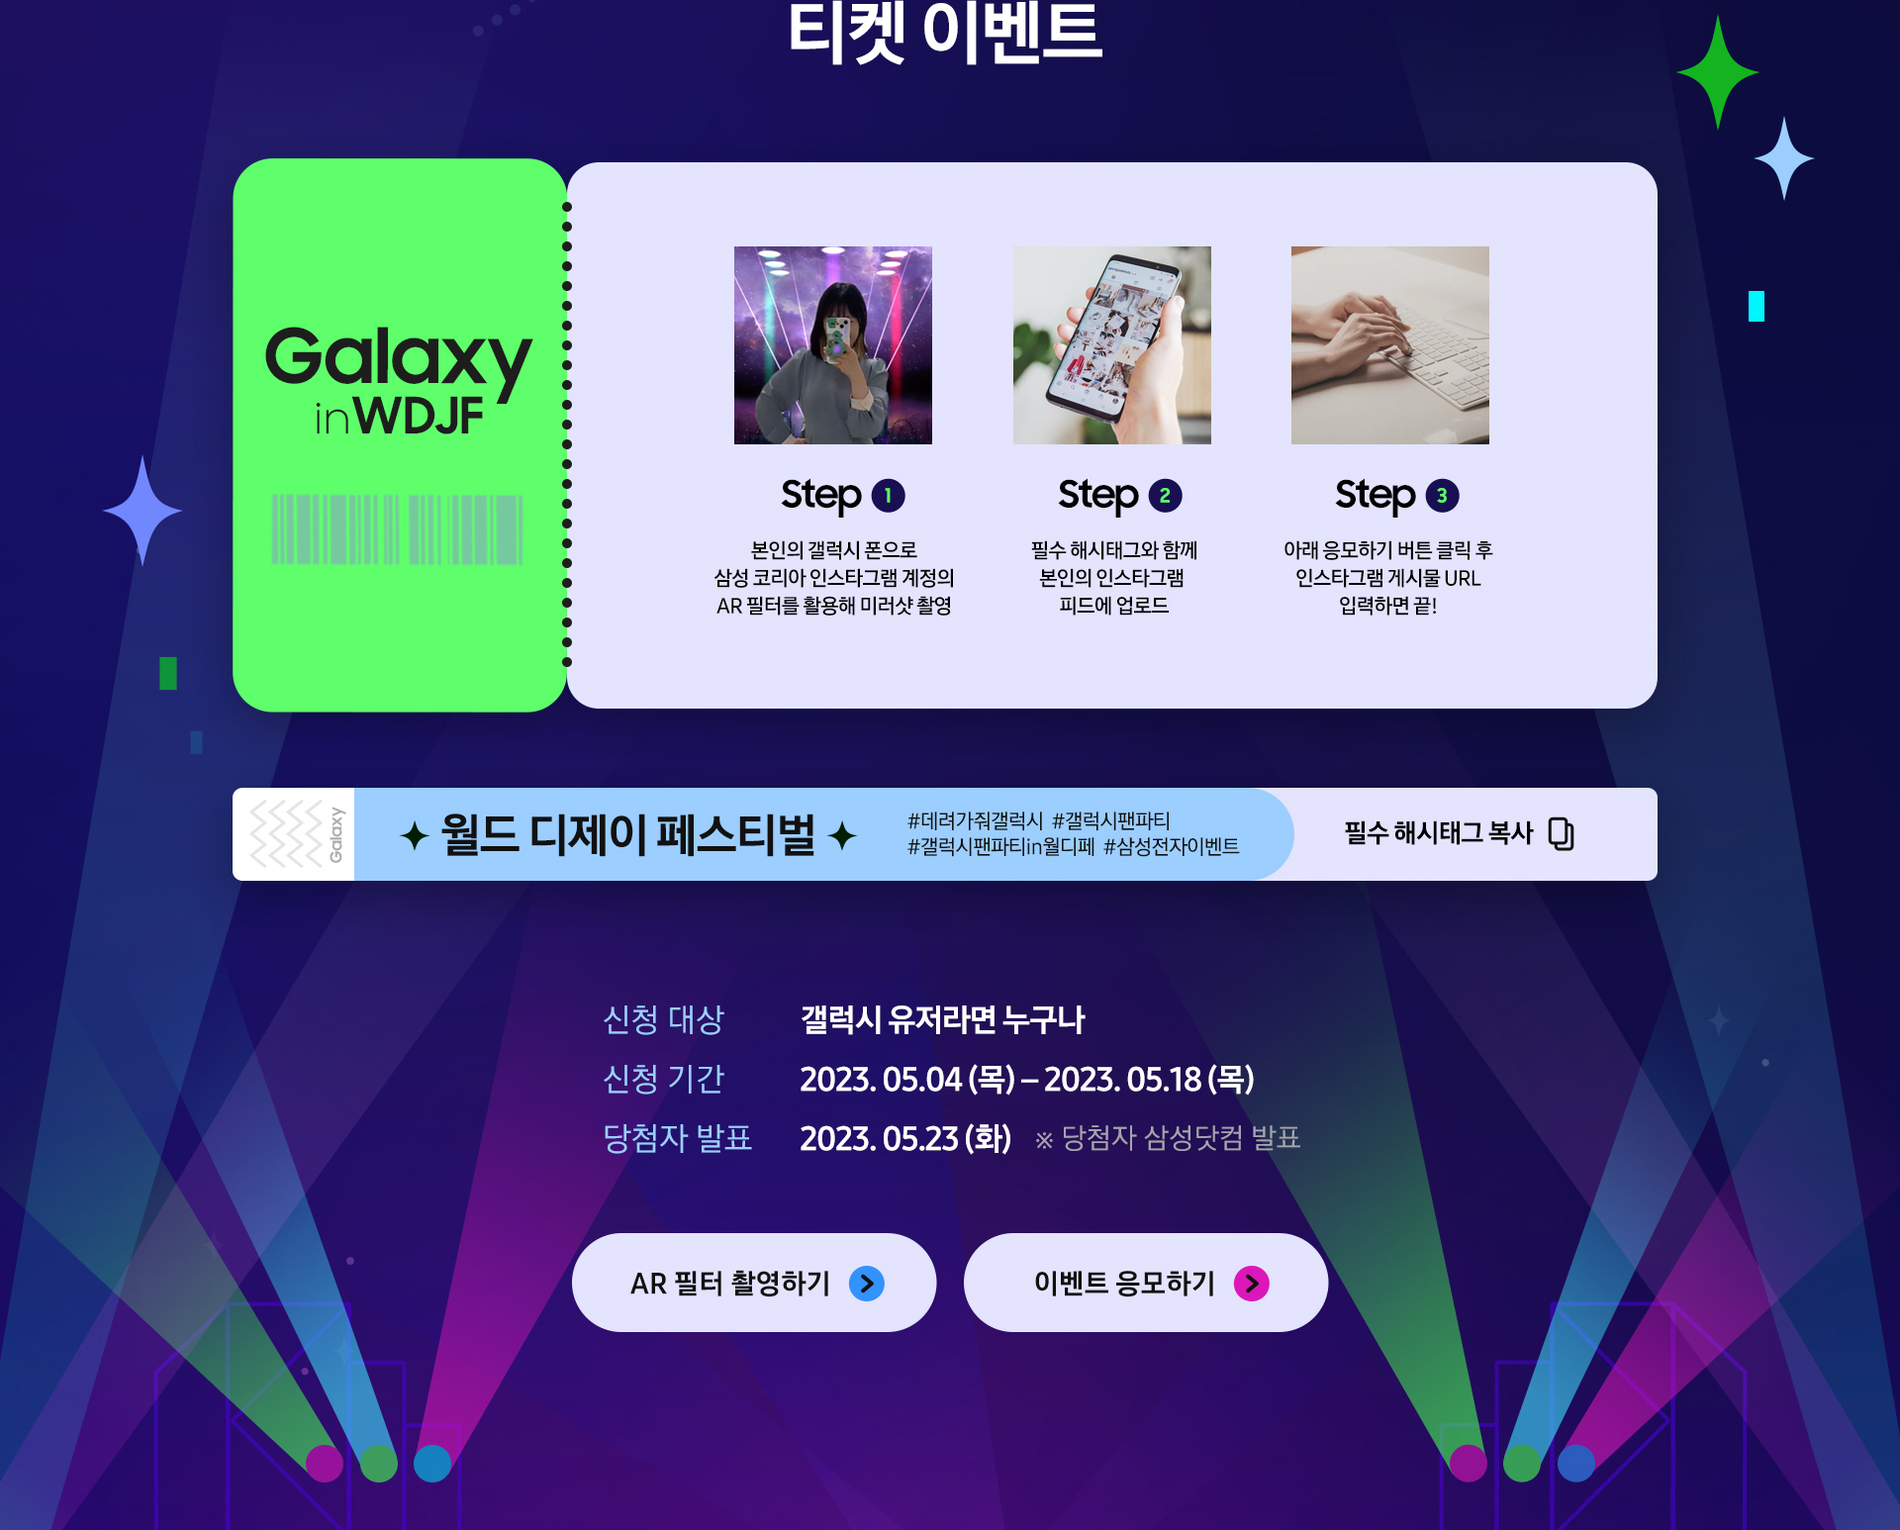
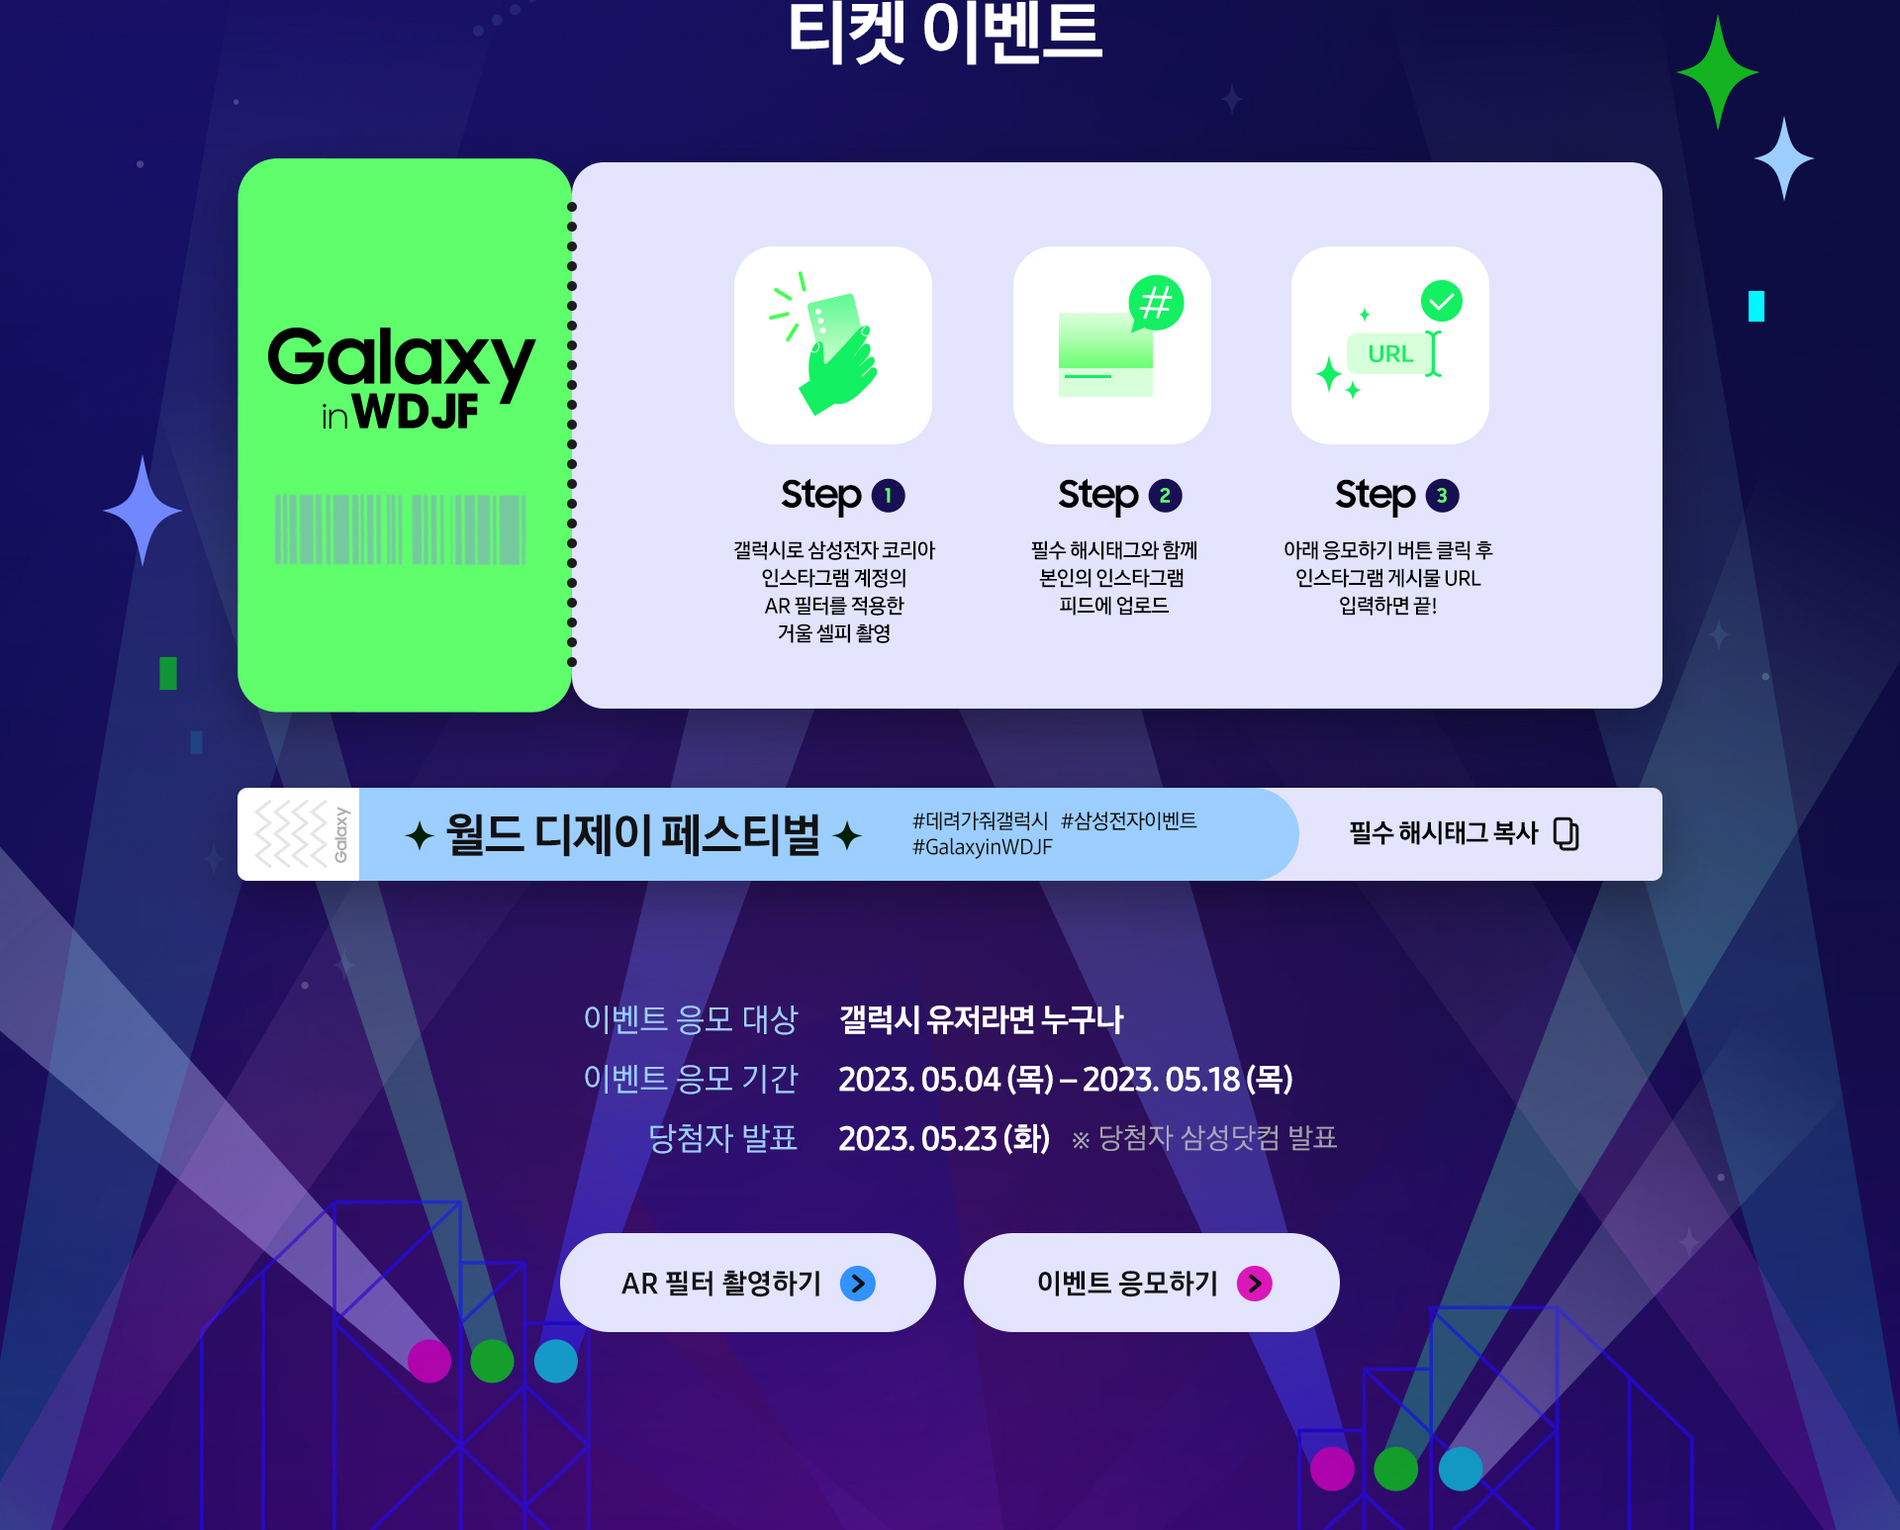
update

diff --git a/index.html b/index.html
@@ -43,16 +43,45 @@
       <!-- <img src="./public/images/pc_keyVisual.jpg" alt=""> -->
       <div class="sr-only">
         <h1>Galaxy in WDJF</h1>
-        <h2>갤럭시, 이번에는 월드 디제이 페스티벌!</h2>
-        <p>이벤트 참여를 통해 당첨된 갤럭시 Fan에게는 갤럭시 in 월드 디제이 페스티벌에 참여할 기회를 드립니다.</p>
+        <h2>갤럭시, 월드 디제이 페스티벌과 만났다!</h2>
+        <p>이벤트 참여를 통해 당첨된 갤럭시 Fan에게는 'Galaxy in WDJF' 티켓을 드립니다.</p>
         <ul>
-          <li><strong>일시</strong>2023.06.02(금) ~ 2023.06.04(일) 14:00 - 22:00</li>
+          <li><strong>행사일</strong>2023.06.02(금) ~ 2023.06.04(일) 14:00 - 22:00</li>
           <li><strong>장소</strong>서울랜드</li>
         </ul>
       </div>
       <a class="btnMore" href="#" target="_blank">월드 디제이 페스티벌 자세히 보기</a>
     </section>
     <section class="contVideo">
+      <div class="swiperArea">
+      <!-- mySwiper2 -->
+        <div class="swiper mySwiper2">
+          <div class="swiper-wrapper">
+            <div class="swiper-slide">
+              <img src="https://swiperjs.com/demos/images/nature-1.jpg" />
+            </div>
+            <div class="swiper-slide">
+              <img src="https://swiperjs.com/demos/images/nature-2.jpg" />
+            </div>
+          </div>
+          <div class="swiper-button-next"></div>
+          <div class="swiper-button-prev"></div>
+        </div>
+        <!-- //mySwiper2 -->
+        <!-- mySwiper -->
+        <div class="swiper mySwiper">
+          <div class="swiper-wrapper">
+            <div class="swiper-slide">
+              <img src="https://swiperjs.com/demos/images/nature-1.jpg" />
+            </div>
+            <div class="swiper-slide">
+              <img src="https://swiperjs.com/demos/images/nature-2.jpg" />
+            </div>
+          </div>
+        </div>
+        <!-- //mySwiper -->
+      </div>
+      
       <!-- <img src="./public/images/pc_contents_1.jpg" alt=""> -->
       <div class="sr-only">
         <h2>갤럭시, 월디페랑 만났다고?</h2>
@@ -68,8 +97,8 @@
       <div class="sr-only">
         <h2>갤럭시 Fan에게만 주어지는 특별한 혜택</h2>
         <ul>
-          <li>기다리지 않고 빠르게 입장 가능한 갤럭시 Fan만을 위한 티켓 부스 운영</li>
-          <li>프리 드링크가 제공되는 초청 고객만 입장할 수 있는 라운지</li>
+          <li>기다리지 않고 빠르게 입장할 수 있는 전용 티켓 부스 운영</li>
+          <li>갤럭시 초청 고객만 입장할 수 있는 라운지</li>
           <li>그 외 Galaxy Station에서 즐길 수 있는 수많은 프로그램까지!</li>
         </ul>
       </div>
@@ -93,9 +122,9 @@
 
       <div class="sr-only">
         <ul>
-          <li><strong>신청 대상</strong>갤럭시 유저라면 누구나</li>
-          <li><strong>신청 기간</strong>2023.05.04(목) - 2023.05.18(목)</li>
-          <li><strong>당첨자 발표</strong>2023.05.23(화) *당첨자 삼성닷컴 발표</li>
+          <li><strong>이벤트 응모 대상</strong>갤럭시 유저라면 누구나</li>
+          <li><strong>이벤트 응모 기간</strong>2023.05.04(목) - 2023.05.18(목)</li>
+          <li><strong>당첨자 발표</strong>2023.05.23(화) * 당첨자 삼성닷컴 발표</li>
         </ul>
       </div>
       <div class="btnArea">
@@ -110,35 +139,16 @@
         <ul>
           <li>본 프로그램은 당사 사정에 의해 예고없이 중단 또는 변경될 수 있습니다.</li>
           <li>본 이벤트 일정 및 내용, 경품 내역, 당첨자 발표일 등은 당사 사정에 의해 예고 없이 중단 또는 변동될 수 있습니다.</li>
-          <li>본 이벤트는 정부의 코로나 19 방역 수칙을 준수하여 진행됩니다.</li>
-          <li>만 14세 미만은 본 프로그램 참여가 불가합니다.</li>
-          <li>만 19세 미만 미성년자의 경우 매장 픽업 시 보호자 동반하여 보호자의 신분증을 제시하셔야 제품 대여가 가능합니다.</li>
-          <li>본 프로그램을 이용하기 위해서는 방문 현장에서 실물 신분증이 필요합니다. (주민등록증/운전면허증/여권 해당) 사전예약 이벤트는 매일 선착순으로 마감되며 비정상적인 방법으로 이벤트 신청 시 당첨이 제한됩니다.</li>
-          <li>(타인 명의 계정 도용, 가짜 명의 생성, 반복 참여 프로그램 이용 등)</li>
-          <li>잘못된 개인정보 입력 시 현장에서 프로그램 참여가 어려울 수 있으며 당사에서 책임지지 않습니다.</li>
-          <li>해당 프로그램에 참여시 결과물과 참여 사진은 기간 제한 없이 당사 마케팅 활동에 활용될 수 있습니다.</li>
-          <li>100배줌은 디지털줌으로 Galaxy S23 Ultra 후면 카메라에 한합니다.</li>
-          <li>본 이벤트 관련 문의사항은 운영사무국으로 연락 부탁드립니다. 전화번호 : 02-2088-3989(10:00~19:00) | email: galaxys23_studio@naver.com</li>
+          <li>만 19세 미만은 본 이벤트 참여가 불가합니다.</li>
+          <li>본 이벤트 경품은 제세공과금이 발생하며, 삼성전자에서 부담합니다.</li>
+          <li>잘못된 개인정보 입력으로 인해 당첨자에게 연락이 불가능하거나 반송될 경우 재발송 되지 않으며 당사에서 책임지지 않습니다.</li>
+          <li>이벤트에 응모할 목적으로 작성한 게시글은 당첨자 발표일까지 전체공개 상태로 유지되어 있어야 정상 응모로 간주됩니다.</li>
+          <li>비정상적인 방법(타인 이미지 도용, 가짜 명의 생성, 반복 참여 프로그램 이용 등)으로 참여 시 당첨이 제한되며, 당첨된 이후라 해도 비정상적 방법으로 응모한 것이 확인될 경우 당첨이 취소될 수 있습니다.</li>
+          <li>본 이벤트 중복 참여는 가능하나, 경품은 중복 지급하지 않습니다. 당첨된 경품을 타인에게 양도하거나 판매하는 것을 금지합니다.</li>
         </ul>
       </div>
     </section>
-      <!-- Slider main container -->
-      <!-- <div class="swiper">
-        <div class="swiper-wrapper">
-          <div class="swiper-slide"><img src="https://images.unsplash.com/photo-1681325655883-14885bd9cd93?ixlib=rb-4.0.3&ixid=MnwxMjA3fDB8MHxwaG90by1wYWdlfHx8fGVufDB8fHx8&auto=format&fit=crop&w=2532&q=80" alt=""></div>
-          <div class="swiper-slide"><img src="https://images.unsplash.com/photo-1681284298793-492e48fcb9f3?ixlib=rb-4.0.3&ixid=MnwxMjA3fDB8MHxwaG90by1wYWdlfHx8fGVufDB8fHx8&auto=format&fit=crop&w=2489&q=80" alt=""></div>
-          <div class="swiper-slide"><img src="https://images.unsplash.com/photo-1681284298614-4a10f165bb37?ixlib=rb-4.0.3&ixid=MnwxMjA3fDB8MHxwaG90by1wYWdlfHx8fGVufDB8fHx8&auto=format&fit=crop&w=2532&q=80" alt=""></div>
-          <div class="swiper-slide iframeArea"><iframe src="https://www.youtube.com/embed/QJSLtK2bY_A" title="YouTube video player" frameborder="0" allow="accelerometer; autoplay; clipboard-write; encrypted-media; gyroscope; picture-in-picture; web-share" allowfullscreen></iframe></div>
-        </div>
-
-        <div class="swiper-pagination"></div>
-
-        <div class="swiper-button-prev"></div>
-        <div class="swiper-button-next"></div>
-
-        <div class="swiper-scrollbar"></div>
-      </div> -->
-      <!-- //Slider main container -->
+      
 
   </div>
   <!-- <script src="public/js/jquery-3.6.0.min.js"></script> -->

diff --git a/public/styles/app.css b/public/styles/app.css
@@ -35,15 +35,47 @@ caption, legend { visibility: hidden; overflow: hidden; font-size: 0; line-heigh
 
 body { -webkit-user-drag: auto; }
 
-.promoWrap { max-width: 1920px; min-width: 1920px; width: 100%; margin: 0 auto; }
+.promoWrap { max-width: 1920px; width: 100%; margin: 0 auto; }
 
 .promoWrap section { position: relative; }
 
 .promoWrap section.keyVisual { width: 100%; height: 1279px; background: url(../images/pc_keyVisual.jpg) no-repeat 100% 100%; background-size: 100% 1279px; }
 
-.promoWrap section.keyVisual .btnMore { position: absolute; right: 226px; bottom: 400px; width: 146px; height: 120px; font-size: 0; line-height: 0; }
+.promoWrap section.keyVisual .btnMore { position: absolute; right: 144px; bottom: 430px; width: 234px; height: 90px; font-size: 0; line-height: 0; }
 
-.promoWrap section.contVideo { width: 100%; height: 1187px; background: url(../images/pc_contents_1.jpg) no-repeat 100% 100%; background-size: 100% 1187px; }
+.promoWrap section.contVideo { width: 100%; height: 1577px; background: url(../images/pc_contents_1.jpg) no-repeat 100% 100%; background-size: 100% 1577px; }
+
+.promoWrap section.contVideo .swiperArea { width: 1435px; margin: 0 auto; padding-top: 417px; }
+
+.promoWrap section.contVideo .swiper { width: 100%; height: 100%; }
+
+.promoWrap section.contVideo .swiper-slide { text-align: center; font-size: 18px; background: #fff; display: flex; justify-content: center; align-items: center; }
+
+.promoWrap section.contVideo .swiper-slide img { display: block; width: 100%; height: 100%; -o-object-fit: cover; object-fit: cover; }
+
+.promoWrap section.contVideo .swiper { width: 100%; height: 300px; margin-left: auto; margin-right: auto; }
+
+.promoWrap section.contVideo .swiper-slide { background-size: cover; background-position: center; }
+
+.promoWrap section.contVideo .mySwiper2 { height: 805px; width: 100%; }
+
+.promoWrap section.contVideo .mySwiper { height: 20%; box-sizing: border-box; padding: 32px 0; }
+
+.promoWrap section.contVideo .mySwiper .swiper-wrapper { justify-content: flex-end; }
+
+.promoWrap section.contVideo .mySwiper .swiper-wrapper .swiper-slide { width: 230px !important; height: 130px; opacity: 0.7; margin-left: 20px; border: 3px solid #c6c7e4; position: relative; }
+
+.promoWrap section.contVideo .mySwiper .swiper-wrapper .swiper-slide::before { position: absolute; top: 50%; left: 50%; z-index: 999; transform: translate(-50%, -50%); background: url(../images/icon_thumbs_play.png) no-repeat 0 0; background-size: 36px 40px; width: 36px; height: 40px; display: block; content: ''; }
+
+.promoWrap section.contVideo .mySwiper .swiper-wrapper .swiper-slide::after { position: absolute; top: 0; left: 0; bottom: 0; right: 0; display: block; content: ''; background-color: #0c0834; opacity: 0.8; width: 100%; height: 100%; }
+
+.promoWrap section.contVideo .mySwiper .swiper-wrapper .swiper-slide.swiper-slide-thumb-active { opacity: 1; border: 3px solid #e3e4fd; }
+
+.promoWrap section.contVideo .mySwiper .swiper-wrapper .swiper-slide.swiper-slide-thumb-active::before { display: none; }
+
+.promoWrap section.contVideo .mySwiper .swiper-wrapper .swiper-slide.swiper-slide-thumb-active::after { display: none; }
+
+.promoWrap section.contVideo .mySwiper .swiper-wrapper .swiper-slide img { display: block; width: 100%; height: 100%; -o-object-fit: cover; object-fit: cover; }
 
 .promoWrap section.contBenefit { width: 100%; height: 1416px; background: url(../images/pc_contents_2.jpg) no-repeat 100% 100%; background-size: 100% 1416px; }
 
@@ -55,4 +87,4 @@ body { -webkit-user-drag: auto; }
 
 .promoWrap section.contTicket .btnArea a { display: block; height: 102px; width: 368px; font-size: 0; line-height: 0; }
 
-.promoWrap section.footerLegal { width: 100%; height: 803px; background: url(../images/pc_footer.jpg) no-repeat 100% 100%; background-size: 100% 803px; }
+.promoWrap section.footerLegal { width: 100%; height: 682px; background: url(../images/pc_footer.jpg) no-repeat 100% 100%; background-size: 100% 682px; }

diff --git a/styles/app.scss b/styles/app.scss
@@ -34,7 +34,7 @@ body {
 
 .promoWrap {
   max-width: 1920px;
-  min-width: 1920px;
+  // min-width: 1920px;
   width: 100%;
   margin: 0 auto;
   section{
@@ -46,19 +46,129 @@ body {
       background-size: 100% 1279px;
       .btnMore{
         position: absolute;
-        right: 226px;
-        bottom: 400px;
-        width: 146px;
-        height: 120px;
+        right: 144px;
+        bottom: 430px;
+        width: 234px;
+        height: 90px;
         font-size: 0;
         line-height: 0;
       }
     }//.keyVisual
     &.contVideo {
       width: 100%;
-      height: 1187px;
+      height: 1577px;
       background: url(../images/pc_contents_1.jpg) no-repeat 100% 100%;
-      background-size: 100% 1187px;
+      background-size: 100% 1577px;
+
+      .swiperArea{
+        width: 1435px;
+        margin: 0 auto;
+        padding-top: 417px;
+      }
+
+      .swiper {
+        width: 100%;
+        height: 100%;
+      }
+
+      .swiper-slide {
+        text-align: center;
+        font-size: 18px;
+        background: #fff;
+        display: flex;
+        justify-content: center;
+        align-items: center;
+      }
+
+      .swiper-slide img {
+        display: block;
+        width: 100%;
+        height: 100%;
+        object-fit: cover;
+      }
+
+      // body {
+      //   background: #000;
+      //   color: #000;
+      // }
+
+      .swiper {
+        width: 100%;
+        height: 300px;
+        margin-left: auto;
+        margin-right: auto;
+      }
+
+      .swiper-slide {
+        background-size: cover;
+        background-position: center;
+      }
+
+      .mySwiper2 {
+        height: 805px;
+        width: 100%;
+      }
+
+      .mySwiper {
+        height: 20%;
+        box-sizing: border-box;
+        padding: 32px 0;
+        .swiper-wrapper{
+          justify-content: flex-end;
+          .swiper-slide {
+            width: 230px !important;
+            height: 130px;
+            opacity: 0.7;
+            margin-left: 20px;
+            border: 3px solid #c6c7e4;
+            position: relative;
+            &::before{
+              position: absolute;
+              top: 50%;
+              left: 50%;
+              z-index: 999;
+              transform: translate(-50%, -50%);
+              background: url(../images/icon_thumbs_play.png) no-repeat 0 0;
+              background-size: 36px 40px;
+              width: 36px;
+              height: 40px;
+              display: block;
+              content: '';
+            }
+            &::after{
+              position: absolute;
+              top: 0;
+              left: 0;
+              bottom: 0;
+              right: 0;
+              display: block;
+              content: '';
+              background-color: #0c0834;
+              opacity: 0.8;
+              width: 100%;
+              height: 100%;
+            }
+            &.swiper-slide-thumb-active {
+              opacity: 1;
+              border: 3px solid #e3e4fd;
+              &::before{
+                display: none;
+              }
+              &::after{
+                display: none;
+              }
+            }
+            img {
+              display: block;
+              width: 100%;
+              height: 100%;
+              object-fit: cover;
+            }
+          }//.swiper-slide
+        }
+         
+      }
+
     }//.contVideo
     &.contBenefit{
       width: 100%;
@@ -103,9 +213,9 @@ body {
     }//.contTicket
     &.footerLegal{
       width: 100%;
-      height: 803px;
+      height: 682px;
       background: url(../images/pc_footer.jpg) no-repeat 100% 100%;
-      background-size: 100% 803px;
+      background-size: 100% 682px;
     }//.footerLegal
   }
  }//.promoWrap

diff --git a/public/js/app.js b/public/js/app.js
@@ -1,24 +1,22 @@
 (function(){
-    const swiper = new Swiper('.swiper', {
-        // Optional parameters
-        loop: true,
-
-        // If we need pagination
-        pagination: {
-            el: '.swiper-pagination',
-        },
-
-        // Navigation arrows
+    //start - swiper
+    const swiper = new Swiper(".mySwiper", {
+        slidesPerView: 4,
+        freeMode: true,
+        watchSlidesProgress: true,
+    });
+    const swiper2 = new Swiper(".mySwiper2", {
+        effect: 'fade',
+        spaceBetween: 10,
         navigation: {
-            nextEl: '.swiper-button-next',
-            prevEl: '.swiper-button-prev',
+            nextEl: ".swiper-button-next",
+            prevEl: ".swiper-button-prev",
         },
-
-        // And if we need scrollbar
-        scrollbar: {
-            el: '.swiper-scrollbar',
+        thumbs: {
+            swiper: swiper,
         },
-    }); 
+    });
+    //end - swiper
 
     //start - 해시태그 복사하기 
     const btnClip = document.querySelector('.btnClip');
